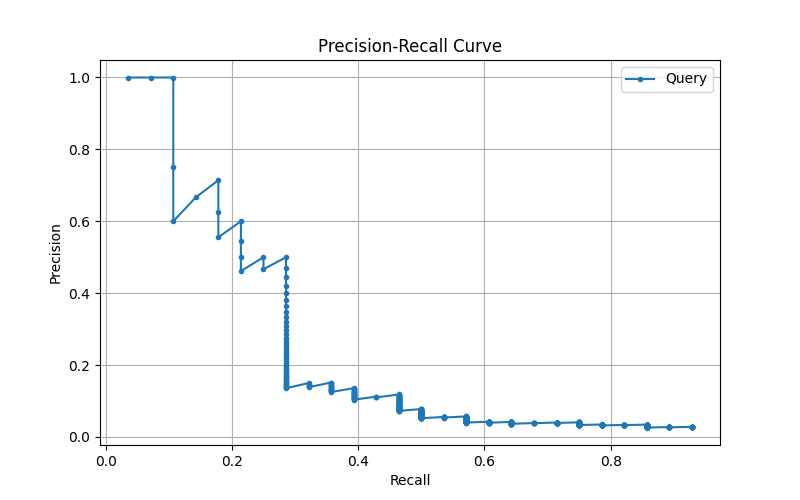
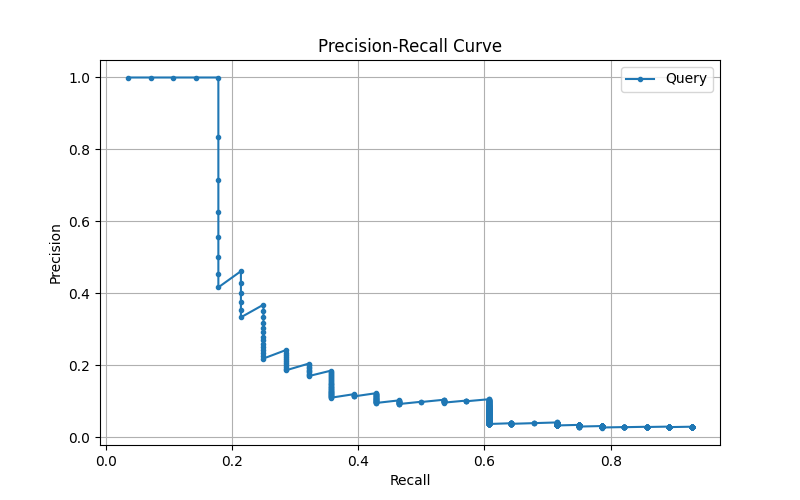
Changes from yane pc :3

diff --git a/optimization.py b/optimization.py
@@ -147,17 +147,27 @@ if __name__ == "__main__":
         args = dict(zip(keys, combo))
         try:
             vectorizer = TfidfVectorizer(norm='l2', stop_words='english', **args)
-            tfidf_matrix = vectorizer.fit_transform(raw_documents)
-            query_matrix = vectorizer.transform(queries)
+            tfidf_matrix = vectorizer.fit_transform(raw_documents) #build index and clean and calc idf and calc tf-idf weights for all docs 
+            query_matrix = vectorizer.transform(queries) #transform queries to tf-idf vectors (we dont use fit cause we dont want to change the index we only want to transform the queries)
             similarity_matrix = cosine_similarity(query_matrix, tfidf_matrix)
             
             total_map = 0
             total_p10 = 0
             
-            for q_idx, scores in enumerate(similarity_matrix):
+            for q_idx, query_scores in enumerate(similarity_matrix):
                 q_id = q_idx + 1
-                ranked_results = sorted(zip(doc_ids, scores), key=lambda x: x[1], reverse=True)
-                retrieved_ids = [doc[0] for doc in ranked_results if doc[1] > 0]
+
+                # Pair each document ID with its calculated similarity score
+                doc_id_score_pairs = zip(doc_ids, query_scores)
+
+                # Sort these pairs in descending order based on the score.
+                # The score is the second element (index 1) in each (doc_id, score) pair.
+                ranked_doc_pairs = sorted(doc_id_score_pairs, key=lambda pair: pair[1], reverse=True)
+
+                # Create a list of retrieved document IDs, but only include those
+                # with a similarity score greater than 0.
+                retrieved_ids = [doc_id for doc_id, score in ranked_doc_pairs if score > 0]
+                
                 relevant_ids = relevance_data.get(q_id, [])
                 
                 if relevant_ids:
@@ -188,15 +198,16 @@ if __name__ == "__main__":
     print(f"Stats -> MAP: {best_scores['MAP']:.4f} | P@10: {best_scores['P@10']:.4f}\n")
 
     
-    print("Phase 2: Final Comparison of 3 Models")
+    # --- Phase 2: Final Comparison of 3 Models ---
     
     results_summary = []
     
-    #optimized sklearn model
+    # 1. Optimized Sklearn Model
     print("\n1. Running Optimized Sklearn Model...")
     t0 = time.time()
     vectorizer = TfidfVectorizer(norm='l2', stop_words='english', **best_params)
     tfidf_matrix = vectorizer.fit_transform(raw_documents)
+    
     idx_time = time.time() - t0
     
     t1 = time.time()
@@ -204,10 +215,15 @@ if __name__ == "__main__":
     similarity_matrix = cosine_similarity(query_matrix, tfidf_matrix)
     
     sklearn_results = []
-    for q_idx, scores in enumerate(similarity_matrix):
-        ranked = sorted(zip(doc_ids, scores), key=lambda x: x[1], reverse=True)
-        ids = [doc[0] for doc in ranked if doc[1] > 0]
-        sklearn_results.append((q_idx + 1, ids))
+    for q_idx, query_scores in enumerate(similarity_matrix):
+        doc_id_score_pairs = zip(doc_ids, query_scores)
+
+        ranked_doc_pairs = sorted(doc_id_score_pairs, key=lambda pair: pair[1], reverse=True)
+
+        retrieved_ids = [doc_id for doc_id, score in ranked_doc_pairs if score > 0]
+
+        sklearn_results.append((q_idx + 1, retrieved_ids))
+
     search_time = time.time() - t1
     
     stats_sklearn, curve_sklearn = evaluate_and_track(sklearn_results, relevance_data, evaluator)
@@ -218,24 +234,28 @@ if __name__ == "__main__":
         **stats_sklearn
     })
 
-    #prepare for custom models
+    # --- Prepare for Custom Models ---
     print("\nPreparing Custom VSM (Tokenization)...")
     df_docs['tokens'] = df_docs['raw_text'].apply(clean_text)
     
-    #custom vsm (classic)
+    # 2. Custom VSM (Classic)
     print("2. Running Custom VSM (Classic)...")
     t0 = time.time()
     index = build_inverted_index(df_docs)
     vsm = VectorSpaceModel(index, len(df_docs))
-    idx_time_custom = time.time() - t0 #same index for both custom models
+    idx_time_custom = time.time() - t0 # Same index for both custom models
     
     t1 = time.time()
     custom_classic_results = []
     for q_id, q_text in enumerate(queries, 1):
         q_tokens = clean_text(q_text)
-        res = vsm.search(q_tokens, scheme='classic')
-        ids = [doc[0] for doc in res]
-        custom_classic_results.append((q_id, ids))
+
+        search_results = vsm.search(q_tokens, scheme='classic')
+
+        retrieved_ids = [doc_id for doc_id, score in search_results]
+
+        custom_classic_results.append((q_id, retrieved_ids))
+
     search_time = time.time() - t1
     
     stats_classic, curve_classic = evaluate_and_track(custom_classic_results, relevance_data, evaluator)
@@ -246,28 +266,32 @@ if __name__ == "__main__":
         **stats_classic
     })
 
-    #custom vsm (alternative)
+    # 3. Custom VSM (Alternative)
     print("3. Running Custom VSM (Alternative)...")
-    #index is already built, so index time is 0 (or same as above)
+    # Index is already built, so index time is effectively 0
     t1 = time.time()
     custom_alt_results = []
     for q_id, q_text in enumerate(queries, 1):
         q_tokens = clean_text(q_text)
-        res = vsm.search(q_tokens, scheme='alternative') 
-        ids = [doc[0] for doc in res]
-        custom_alt_results.append((q_id, ids))
+
+        search_results = vsm.search(q_tokens, scheme='alternative') 
+
+        retrieved_ids = [doc_id for doc_id, score in search_results]
+
+        custom_alt_results.append((q_id, retrieved_ids))
+
     search_time = time.time() - t1
     
     stats_alt, curve_alt = evaluate_and_track(custom_alt_results, relevance_data, evaluator)
     results_summary.append({
         'Model': 'Custom VSM (Alternative)', 
-        'Index Time': idx_time_custom, 
+        'Index Time': idx_time_custom, # Re-using index time from classic model
         'Search Time': search_time, 
         **stats_alt
     })
 
     
-    
+    # --- Final Results ---
     
     print("\n" + "="*80)
     print(f"{'Model':<25} | {'Idx(s)':<8} | {'Srch(s)':<8} | {'MAP':<8} | {'P@10':<8} | {'F1':<8}")
@@ -276,7 +300,7 @@ if __name__ == "__main__":
         print(f"{res['Model']:<25} | {res['Index Time']:<8.4f} | {res['Search Time']:<8.4f} | {res['MAP']:<8.4f} | {res['P@10']:<8.4f} | {res['F1']:<8.4f}")
     print("="*80)
     
-    #plot pr curves
+    # --- Plot PR Curves ---
     
     plt.figure(figsize=(10, 6))
     plt.plot(curve_sklearn[0], curve_sklearn[1], label=f"Sklearn (MAP={stats_sklearn['MAP']:.3f})", linewidth=2)
@@ -288,4 +312,5 @@ if __name__ == "__main__":
     plt.title('Comparison of Precision-Recall Curves')
     plt.legend()
     plt.grid(True)
-    plt.show()
+    plt.savefig('pr_curve_comparison.png')
+    print("\nPlot saved as pr_curve_comparison.png")

diff --git a/vsm.py b/vsm.py
@@ -38,14 +38,14 @@ class VectorSpaceModel:
         for word in query_tokens:
             query_counts[word] = query_counts.get(word, 0) + 1 #if you have counted it, increment, else start from 0
             
-        query_weights = {}
+        scaled_query = {}
         query_length = 0
         
         #calc query weights and length
         for term, count in query_counts.items():
-            w = self.get_weight(count, term, scheme)
-            query_weights[term] = w
-            query_length += w * w #for |q| later for cosine similarity
+            scaled_comp_q = self.get_weight(count, term, scheme)
+            scaled_query[term] = scaled_comp_q
+            query_length += scaled_comp_q * scaled_comp_q #for |q| later for cosine similarity
             
         query_length = math.sqrt(query_length) #same here for |q|
         
@@ -53,29 +53,48 @@ class VectorSpaceModel:
             return []
 
         #score documents
-        scores = {}
-        
-        for term, q_weight in query_weights.items():
+        dot_prod = {}
+        relevant_docs = set()
+
+        for term, scaled_comp_q in scaled_query.items():
             if term in self.inverted_index:
                 postings = self.inverted_index[term]
                 
-                for doc_data in postings:
-                    doc_id = doc_data[0]
-                    doc_tf = doc_data[1]
+                for doc_id, doc_tf in postings:
+                    relevant_docs.add(doc_id)
                     
-                    #calc doc weight
-                    d_weight = self.get_weight(doc_tf, term, scheme)
+                    #calc doc weight for the current term
+                    scaled_comp_d = self.get_weight(doc_tf, term, scheme)
                     
                     #accumulate dot product
-                    if doc_id not in scores:
-                        scores[doc_id] = 0
-                    scores[doc_id] += q_weight * d_weight
+                    if doc_id not in dot_prod:
+                        dot_prod[doc_id] = 0
+                    dot_prod[doc_id] += scaled_comp_q * scaled_comp_d
+
+        # Calculate document vector lengths on-the-fly for relevant docs
+        doc_lengths = {}
+        for doc_id in relevant_docs:
+            len_sq = 0
+            # To get all terms for a doc, we must iterate through the index
+            # This is inefficient but necessary for on-the-fly calculation
+            for term, postings in self.inverted_index.items():
+                for post_doc_id, tf in postings:
+                    if post_doc_id == doc_id:
+                        weight = self.get_weight(tf, term, scheme)
+                        len_sq += weight ** 2
+                        break # Move to next term once doc is found
+            doc_lengths[doc_id] = math.sqrt(len_sq)
 
         #finalize and sort
         results = []
-        for doc_id, dot_product in scores.items():
-            #cosine similarity: dot_product / query_length
-            final_score = dot_product / query_length
+        for doc_id, dot_product in dot_prod.items():
+            doc_length = doc_lengths.get(doc_id, 1) # Default to 1 to avoid division by zero
+            
+            #full cosine similarity: dot_product / (query_length * doc_length)
+            if query_length > 0 and doc_length > 0:
+                final_score = dot_product / (query_length * doc_length)
+            else:
+                final_score = 0
             results.append([doc_id, final_score])
             
         #sort desc

diff --git a/processor.py b/processor.py
@@ -83,16 +83,16 @@ def build_inverted_index(df):
         d_id = row['doc_id']
         tokens = row['tokens'] 
         
-       #calc term frequencies for the document
-        tf_counts = {}
+       #calc tokens frequencies for the document
+        tf_counts = {} # Note that this is a key addressed dictionary
         for token in tokens:
             tf_counts[token] = tf_counts.get(token, 0) + 1
             
        #update inverted index
-        for term, count in tf_counts.items():
-            if term not in index:
-                index[term] = []
-            # Store: [Document ID, Term Frequency]
-            index[term].append([d_id, count])
+        for token, count in tf_counts.items():
+            if token not in index:
+                index[token] = []
+            # Store: [Document ID, tokens Frequency]
+            index[token].append([d_id, count])
             
     return index

diff --git a/main.py b/main.py
@@ -24,11 +24,10 @@ base_path = "collection"
 docs_path = os.path.join(base_path, "docs")
 queries_path = os.path.join(base_path, "Queries.txt")
 relevance_path = os.path.join(base_path, "Relevant.txt")
-
 # load docs
 print("--- ΦΑΣΗ 1: Φόρτωση Δεδομένων ---")
 df_docs = load_documents(docs_path)
-df_docs['tokens'] = df_docs['raw_text'].apply(clean_text)
+df_docs['tokens'] = df_docs['raw_text'].apply(clean_text) # Note that this affects dataframe manipulation in index building
 
 # build index
 index = build_inverted_index(df_docs)
@@ -52,7 +51,7 @@ if os.path.exists(queries_path):
     
     # search
     q_tokens = clean_text(q_text)
-    results = vsm.search(q_tokens, scheme='classic')
+    results = vsm.search(q_tokens, scheme='alternative')
     results_show = results[:10] # top 10 results
 
     # print results
